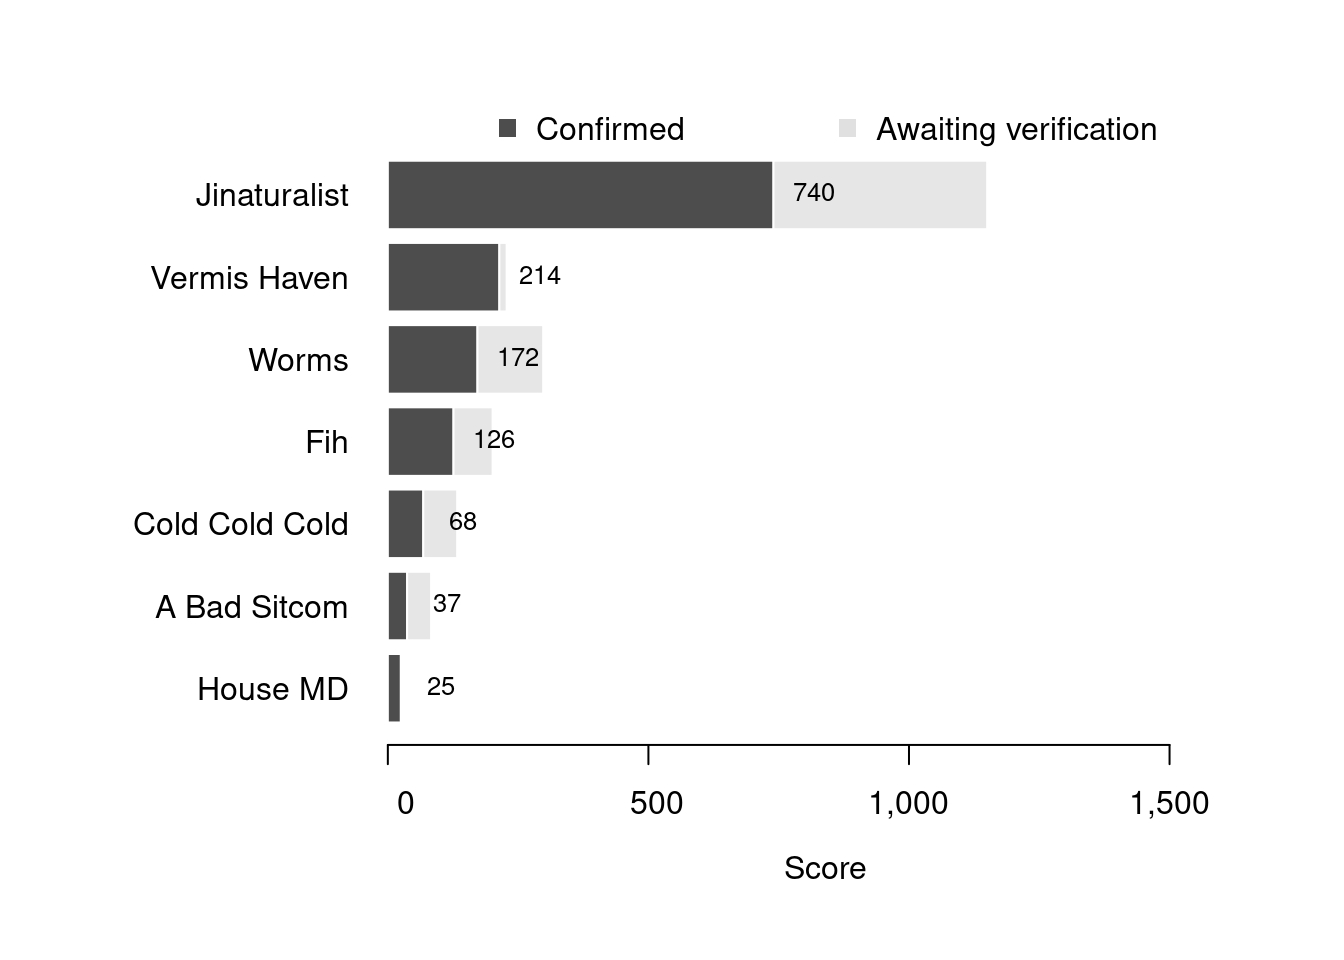
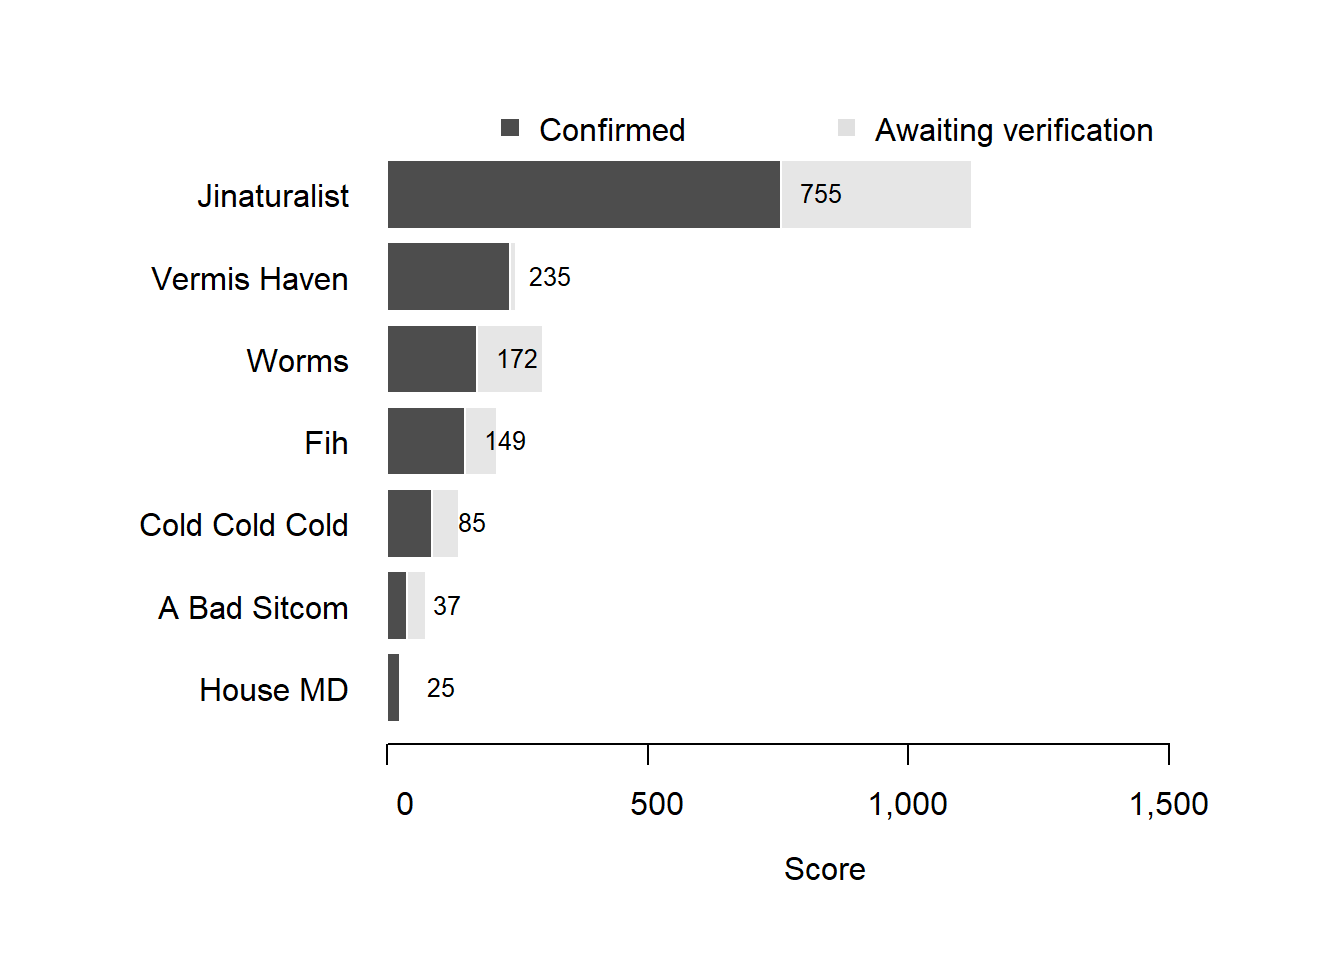
Adding v2 of Menai Nov 2026 results

diff --git a/BRPC_Menai_Bridge_November_2026_report.html b/BRPC_Menai_Bridge_November_2026_report.html
@@ -42,11 +42,16 @@
   <!-- THEN TOC -->
     <nav id="TOC" role="doc-toc">
     <ul>
-    <li><a href="#overall-results">Overall Results</a></li>
-    <li><a href="#team-results">Team results</a></li>
-    <li><a href="#individual-results">Individual results</a></li>
-    <li><a href="#top-species-found">Top species found</a></li>
-    <li><a href="#event-species-list">Event species list</a></li>
+    <li><a href="#overall-results" id="toc-overall-results">Overall
+    Results</a></li>
+    <li><a href="#team-results" id="toc-team-results">Team
+    results</a></li>
+    <li><a href="#individual-results"
+    id="toc-individual-results">Individual results</a></li>
+    <li><a href="#top-species-found" id="toc-top-species-found">Top
+    species found</a></li>
+    <li><a href="#event-species-list" id="toc-event-species-list">Event
+    species list</a></li>
     </ul>
   </nav>
   
@@ -70,7 +75,8 @@ document.addEventListener("DOMContentLoaded", function () {
   <div id="toc-here">
 
   </div>
-  <p>You can view all the wildlife recorded at this event on <a href="https://www.inaturalist.org/projects/brpc-menai-bridge-november-2026">iNaturalist</a>.</p>
+  <p>You can view all the wildlife recorded at this event on <a
+  href="https://www.inaturalist.org/projects/brpc-menai-bridge-november-2026">iNaturalist</a>.</p>
   </div>
   <div id="overall-results" class="section level2">
   <h2>Overall Results</h2>
@@ -162,7 +168,9 @@ document.addEventListener("DOMContentLoaded", function () {
   <div id="team-results" class="section level2">
   <h2>Team results</h2>
   <p>
-  Congratulations to <strong>Jinaturalist</strong> for taking the gold medal in this BioBlitz Battle! And well done to everyone for a great game and some fantastic wildlife finds.
+  Congratulations to <strong>Jinaturalist</strong> for taking the gold
+  medal in this BioBlitz Battle! And well done to everyone for a great
+  game and some fantastic wildlife finds.
   </p>
   <table class="table table-striped table-hover table-condensed table-responsive" style="width: auto !important; margin-left: auto; margin-right: auto;">
   <thead>
@@ -190,10 +198,10 @@ document.addEventListener("DOMContentLoaded", function () {
   149
   </td>
   <td style="text-align:right;text-align:right;">
-  1150
+  1122
   </td>
   <td style="text-align:right;text-align:right;">
-  740
+  755
   </td>
   </tr>
   <tr>
@@ -204,10 +212,10 @@ document.addEventListener("DOMContentLoaded", function () {
   29
   </td>
   <td style="text-align:right;text-align:right;">
-  228
+  247
   </td>
   <td style="text-align:right;text-align:right;">
-  214
+  235
   </td>
   </tr>
   <tr>
@@ -232,10 +240,10 @@ document.addEventListener("DOMContentLoaded", function () {
   37
   </td>
   <td style="text-align:right;text-align:right;">
-  201
+  211
   </td>
   <td style="text-align:right;text-align:right;">
-  126
+  149
   </td>
   </tr>
   <tr>
@@ -246,10 +254,10 @@ document.addEventListener("DOMContentLoaded", function () {
   11
   </td>
   <td style="text-align:right;text-align:right;">
-  133
+  138
   </td>
   <td style="text-align:right;text-align:right;">
-  68
+  85
   </td>
   </tr>
   <tr>
@@ -260,7 +268,7 @@ document.addEventListener("DOMContentLoaded", function () {
   14
   </td>
   <td style="text-align:right;text-align:right;">
-  83
+  75
   </td>
   <td style="text-align:right;text-align:right;">
   37
@@ -326,10 +334,10 @@ document.addEventListener("DOMContentLoaded", function () {
   56
   </td>
   <td style="text-align:right;text-align:right;">
-  646
+  618
   </td>
   <td style="text-align:right;text-align:right;">
-  286
+  307
   </td>
   </tr>
   <tr>
@@ -340,10 +348,10 @@ document.addEventListener("DOMContentLoaded", function () {
   29
   </td>
   <td style="text-align:right;text-align:right;">
-  228
+  247
   </td>
   <td style="text-align:right;text-align:right;">
-  214
+  235
   </td>
   </tr>
   <tr>
@@ -382,10 +390,10 @@ document.addEventListener("DOMContentLoaded", function () {
   18
   </td>
   <td style="text-align:right;text-align:right;">
-  139
+  141
   </td>
   <td style="text-align:right;text-align:right;">
-  139
+  141
   </td>
   </tr>
   <tr>
@@ -396,10 +404,24 @@ document.addEventListener("DOMContentLoaded", function () {
   23
   </td>
   <td style="text-align:right;text-align:right;">
-  147
+  178
   </td>
   <td style="text-align:right;text-align:right;">
-  109
+  132
+  </td>
+  </tr>
+  <tr>
+  <td style="text-align:left;">
+  nici1307
+  </td>
+  <td style="text-align:right;text-align:right;">
+  14
+  </td>
+  <td style="text-align:right;text-align:right;">
+  107
+  </td>
+  <td style="text-align:right;text-align:right;">
+  97
   </td>
   </tr>
   <tr>
@@ -418,16 +440,16 @@ document.addEventListener("DOMContentLoaded", function () {
   </tr>
   <tr>
   <td style="text-align:left;">
-  nici1307
+  gwenelis
   </td>
   <td style="text-align:right;text-align:right;">
-  14
+  11
   </td>
   <td style="text-align:right;text-align:right;">
-  113
+  138
   </td>
   <td style="text-align:right;text-align:right;">
-  91
+  85
   </td>
   </tr>
   <tr>
@@ -442,20 +464,6 @@ document.addEventListener("DOMContentLoaded", function () {
   </td>
   <td style="text-align:right;text-align:right;">
   80
-  </td>
-  </tr>
-  <tr>
-  <td style="text-align:left;">
-  gwenelis
-  </td>
-  <td style="text-align:right;text-align:right;">
-  11
-  </td>
-  <td style="text-align:right;text-align:right;">
-  133
-  </td>
-  <td style="text-align:right;text-align:right;">
-  68
   </td>
   </tr>
   <tr>
@@ -494,7 +502,7 @@ document.addEventListener("DOMContentLoaded", function () {
   5
   </td>
   <td style="text-align:right;text-align:right;">
-  35
+  27
   </td>
   <td style="text-align:right;text-align:right;">
   4
@@ -613,7 +621,8 @@ document.addEventListener("DOMContentLoaded", function () {
   <div id="event-species-list" class="section level2">
   <h2>Event species list</h2>
   <p>Community verified records only</p>
-  <p><span class="image-note"> Click any image to view the taxon on iNaturalist. </span></p>
+  <p><span class="image-note"> Click any image to view the taxon on
+  iNaturalist. </span></p>
   <table class="table table-striped table-hover table-condensed table-responsive" style="width: auto !important; margin-left: auto; margin-right: auto;">
   <thead>
   <tr>
@@ -721,7 +730,7 @@ document.addEventListener("DOMContentLoaded", function () {
   <a href="https://www.inaturalist.org/taxa/210232" target="_blank" rel="noopener" title="View this taxon on iNaturalist"><img src="https://inaturalist-open-data.s3.amazonaws.com/photos/119357057/square.jpg" alt="" style="display:inline-block; width:48px; height:48px; object-fit:cover; border-radius:6px;" loading="lazy"></a>
   </td>
   <td style="text-align:left;width: 520px; ">
-  Große Pfeffermuschel - <em>Scrobicularia plana</em>
+  Peppery Furrow Shell - <em>Scrobicularia plana</em>
   </td>
   <td style="text-align:right;width: 120px; text-align:right;">
   25
@@ -875,7 +884,7 @@ document.addEventListener("DOMContentLoaded", function () {
   <a href="https://www.inaturalist.org/taxa/320326" target="_blank" rel="noopener" title="View this taxon on iNaturalist"><img src="https://inaturalist-open-data.s3.amazonaws.com/photos/46843651/square.jpeg" alt="" style="display:inline-block; width:48px; height:48px; object-fit:cover; border-radius:6px;" loading="lazy"></a>
   </td>
   <td style="text-align:left;width: 520px; ">
-  Fünfbärtelige Seequappe - <em>Ciliata mustela</em>
+  Five-bearded Rockling - <em>Ciliata mustela</em>
   </td>
   <td style="text-align:right;width: 120px; text-align:right;">
   16
@@ -908,7 +917,7 @@ document.addEventListener("DOMContentLoaded", function () {
   <a href="https://www.inaturalist.org/taxa/476238" target="_blank" rel="noopener" title="View this taxon on iNaturalist"><img src="https://inaturalist-open-data.s3.amazonaws.com/photos/2560758/square.jpg" alt="" style="display:inline-block; width:48px; height:48px; object-fit:cover; border-radius:6px;" loading="lazy"></a>
   </td>
   <td style="text-align:left;width: 520px; ">
-  Warzige Sternschnecke - <em>Archidoris pseudoargus</em>
+  Sea Lemon - <em>Archidoris pseudoargus</em>
   </td>
   <td style="text-align:right;width: 120px; text-align:right;">
   15
@@ -985,7 +994,7 @@ document.addEventListener("DOMContentLoaded", function () {
   <a href="https://www.inaturalist.org/taxa/210280" target="_blank" rel="noopener" title="View this taxon on iNaturalist"><img src="https://static.inaturalist.org/photos/59056046/square.jpeg" alt="" style="display:inline-block; width:48px; height:48px; object-fit:cover; border-radius:6px;" loading="lazy"></a>
   </td>
   <td style="text-align:left;width: 520px; ">
-  Strand-Seeigel - <em>Psammechinus miliaris</em>
+  Green Sea Urchin - <em>Psammechinus miliaris</em>
   </td>
   <td style="text-align:right;width: 120px; text-align:right;">
   13
@@ -1073,7 +1082,7 @@ document.addEventListener("DOMContentLoaded", function () {
   <a href="https://www.inaturalist.org/taxa/53462" target="_blank" rel="noopener" title="View this taxon on iNaturalist"><img src="https://static.inaturalist.org/photos/18145221/square.jpeg" alt="" style="display:inline-block; width:48px; height:48px; object-fit:cover; border-radius:6px;" loading="lazy"></a>
   </td>
   <td style="text-align:left;width: 520px; ">
-  Native oyster - <em>Ostrea edulis</em>
+  European Flat Oyster - <em>Ostrea edulis</em>
   </td>
   <td style="text-align:right;width: 120px; text-align:right;">
   11
@@ -1095,7 +1104,7 @@ document.addEventListener("DOMContentLoaded", function () {
   <a href="https://www.inaturalist.org/taxa/446756" target="_blank" rel="noopener" title="View this taxon on iNaturalist"><img src="https://inaturalist-open-data.s3.amazonaws.com/photos/167440017/square.jpg" alt="" style="display:inline-block; width:48px; height:48px; object-fit:cover; border-radius:6px;" loading="lazy"></a>
   </td>
   <td style="text-align:left;width: 520px; ">
-  Rändel-Käferschnecke - <em>Lepidochitona cinerea</em>
+  Grey Mail-shell - <em>Lepidochitona cinerea</em>
   </td>
   <td style="text-align:right;width: 120px; text-align:right;">
   10
@@ -1216,7 +1225,7 @@ document.addEventListener("DOMContentLoaded", function () {
   <a href="https://www.inaturalist.org/taxa/711719" target="_blank" rel="noopener" title="View this taxon on iNaturalist"><img src="https://inaturalist-open-data.s3.amazonaws.com/photos/171649800/square.jpeg" alt="" style="display:inline-block; width:48px; height:48px; object-fit:cover; border-radius:6px;" loading="lazy"></a>
   </td>
   <td style="text-align:left;width: 520px; ">
-  Genabelte Kreiselschnecke - <em>Steromphala umbilicalis</em>
+  Purple Topshell - <em>Steromphala umbilicalis</em>
   </td>
   <td style="text-align:right;width: 120px; text-align:right;">
   9
@@ -1271,7 +1280,7 @@ document.addEventListener("DOMContentLoaded", function () {
   <a href="https://www.inaturalist.org/taxa/210294" target="_blank" rel="noopener" title="View this taxon on iNaturalist"><img src="https://static.inaturalist.org/photos/29614655/square.jpg" alt="" style="display:inline-block; width:48px; height:48px; object-fit:cover; border-radius:6px;" loading="lazy"></a>
   </td>
   <td style="text-align:left;width: 520px; ">
-  Schan - <em>Lipophrys pholis</em>
+  Shanny - <em>Lipophrys pholis</em>
   </td>
   <td style="text-align:right;width: 120px; text-align:right;">
   8
@@ -1304,7 +1313,7 @@ document.addEventListener("DOMContentLoaded", function () {
   <a href="https://www.inaturalist.org/taxa/154706" target="_blank" rel="noopener" title="View this taxon on iNaturalist"><img src="https://static.inaturalist.org/photos/27603096/square.jpg" alt="" style="display:inline-block; width:48px; height:48px; object-fit:cover; border-radius:6px;" loading="lazy"></a>
   </td>
   <td style="text-align:left;width: 520px; ">
-  Gewöhnliche Napfschnecke - <em>Patella vulgata</em>
+  Common European Limpet - <em>Patella vulgata</em>
   </td>
   <td style="text-align:right;width: 120px; text-align:right;">
   8
@@ -1326,7 +1335,7 @@ document.addEventListener("DOMContentLoaded", function () {
   <a href="https://www.inaturalist.org/taxa/52523" target="_blank" rel="noopener" title="View this taxon on iNaturalist"><img src="https://inaturalist-open-data.s3.amazonaws.com/photos/6015089/square.jpg" alt="" style="display:inline-block; width:48px; height:48px; object-fit:cover; border-radius:6px;" loading="lazy"></a>
   </td>
   <td style="text-align:left;width: 520px; ">
-  Gemeine Strandkrabbe - <em>Carcinus maenas</em>
+  European Green Crab - <em>Carcinus maenas</em>
   </td>
   <td style="text-align:right;width: 120px; text-align:right;">
   7
@@ -1337,7 +1346,7 @@ document.addEventListener("DOMContentLoaded", function () {
   <a href="https://www.inaturalist.org/taxa/54227" target="_blank" rel="noopener" title="View this taxon on iNaturalist"><img src="https://static.inaturalist.org/photos/199420434/square.jpg" alt="" style="display:inline-block; width:48px; height:48px; object-fit:cover; border-radius:6px;" loading="lazy"></a>
   </td>
   <td style="text-align:left;width: 520px; ">
-  Beech - <em>Fagus sylvatica</em>
+  European beech - <em>Fagus sylvatica</em>
   </td>
   <td style="text-align:right;width: 120px; text-align:right;">
   7
